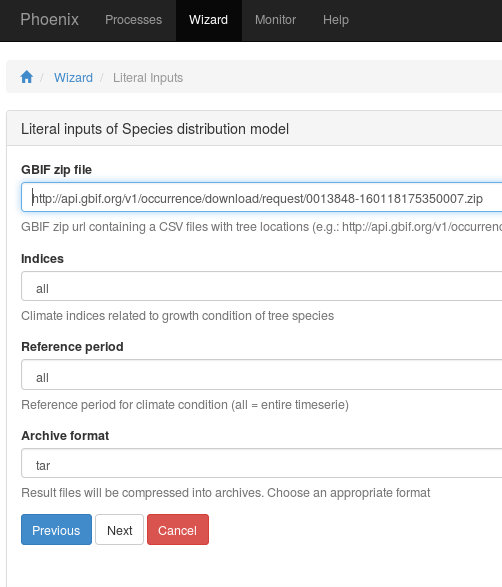
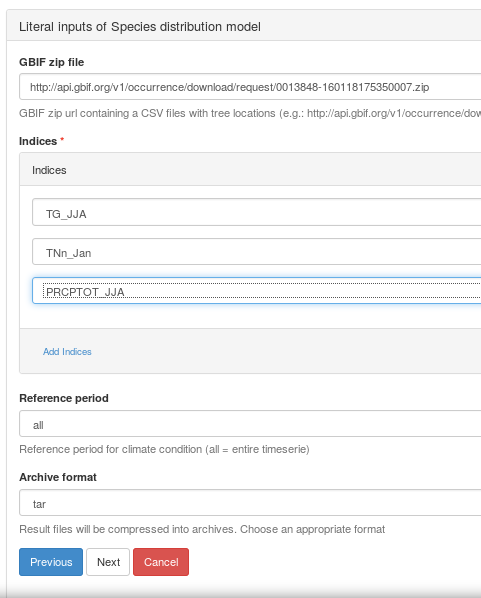
disable all option in sdm indices and update documentation

Changed region(s): [[0.0, 0.0, 1.0, 0.552], [0.0, 0.5826, 1.0, 1.0]]

diff --git a/flyingpigeon/processes/wps_sdm.py b/flyingpigeon/processes/wps_sdm.py
@@ -53,12 +53,11 @@ class SDMProcess(WPSProcess):
             identifier="input_indices",
             title="Indices",
             abstract="Climate indices related to growth condition of tree species",
-            #default="TG_JJA",
-            default="all",
+            default=['TG_JJA', 'TNn_Jan',],
             type=type(''),
             minOccurs=1,
             maxOccurs=3,
-            allowedValues=['all','TG_JJA', 'TNn_Jan', 'PRCPTOT_JJA'] # 'PRCPTOT_JJA'
+            allowedValues=['TG_JJA', 'TNn_Jan', 'PRCPTOT_JJA']
             )
 
         self.period = self.addLiteralInput(
@@ -162,8 +161,6 @@ class SDMProcess(WPSProcess):
         #indices = self.input_indices.getValue()
         indices = self.getInputValues(identifier='input_indices')
         logger.debug("indices = %s", indices)
-        if 'all' in indices:
-            indices = ['TG_JJA', 'TNn_Jan', 'PRCPTOT_JJA'] # 
         
         archive_format = self.archive_format.getValue()
       except Exception as e: 
@@ -305,9 +302,7 @@ class SDMProcess(WPSProcess):
 
         try:
           gam_model, predict_gam, gam_info = sdm.get_gam(ncs_references,PAmask)
-
           statistics_info.append(gam_info)
-
           self.status.set('GAM sucessfully trained', 70)
         except:
           msg = 'failed to train GAM'  

diff --git a/docs/source/descriptions/index.rst b/docs/source/descriptions/index.rst
@@ -16,35 +16,6 @@ Analog pressure pattern
 CASTf90 first downloads fields from NCEP reanalysis (sea level pressure, slp, as default) and then searches in a given simulation period for the most similar cases within a given data base period according to a given distance measure. Finally, it writes the N most similar days, including their calculated distances from the reference case, to an output file.
 
 
-.. _extract_coordinates
-
-extract 1D Timeseries from coordinate points
---------------------------------------------
-
-Extract Timeseries for specified coordinates from gridded data.
-
-.. _extremevalues: 
-
-Extremevalues
--------------
-
-Calculation of return time Values for 1D timeseries. 
-
-
-.. _getEOBS_inCORDEXformat: 
-
-get EOBS Data in CORDEX format
--------------------------------
-
-converts EOBS data files into the CORDEX convention. (variable names, attributes, etc ... ).
-
-.. _fetch: 
-
-
-Download Resources
-------------------
-
-Downloads resources (limited to 50GB) to the local file system of the birdhouse computer provider.
 
 .. _indices:
 
@@ -55,8 +26,9 @@ Climate indices are values that describe the state the climate system for a cert
 The climate indices processes in flyingpigeon are based on the python package 'Link icclim <http://icclim.readthedocs.org/en/latest/>'.
 they are subclassed to 
 
-* index simple: 
+* simple indices:
 
+Simple indices are based on a single input variable, and with and an simple calculation algorythem.
 
 +--------+----------------+--------------------------------------------------------------------------------+
 | Index  | Input Variable | Definition                                                                     |
@@ -119,8 +91,14 @@ they are subclassed to
 +--------+----------------+--------------------------------------------------------------------------------+
 
 
-* index percentile based
+* Percentile based indices:
+---------------------------
 
+
+Percentile based indices requires two additional calculation stepps: 
+
+* Calculation of the appropriate percentile value for a given revenence period
+* Counting of days beyond the threshold
 
 +------------+----------------+--------------------------------------------------------------------------------+
 | Indice     | Input Variable | Definition                                                                     |
@@ -154,6 +132,37 @@ they are subclassed to
 |  R99pTOT   |    pr          |    Precipitation fraction due to extremely wet days (>99th percentile)(%)      |
 +------------+----------------+--------------------------------------------------------------------------------+
 
+
+
+.. _extract_coordinates
+
+extract 1D Timeseries from coordinate points
+--------------------------------------------
+
+Extract Timeseries for specified coordinates from gridded data.
+
+.. _extremevalues: 
+
+Extremevalues
+-------------
+
+Calculation of return time Values for 1D timeseries. 
+
+
+.. _getEOBS_inCORDEXformat: 
+
+get EOBS Data in CORDEX format
+-------------------------------
+
+converts EOBS data files into the CORDEX convention. (variable names, attributes, etc ... ).
+
+.. _fetch: 
+
+
+Download Resources
+------------------
+
+Downloads resources (limited to 50GB) to the local file system of the birdhouse computer provider.
 
 
 .. _ensemble_Robustness:
@@ -194,9 +203,11 @@ Example with Phoenix (GUI):
     |_ Choose a Web Processing Service: Flyingpigeon 
       |_ Choose WPS Process of Flyingpigeon: Species distribution model - Species distribution model (SDM) 
         |_ Literal inputs of Species distribution model :
+
         
 .. image:: ../pics/sdm_literalinputs.png
-        
+
+
           |_ Choose Input Parameter of Species distribution model: netCDF
             |_ Choose Data Source : Earth System Grid (ESGF) 
             
